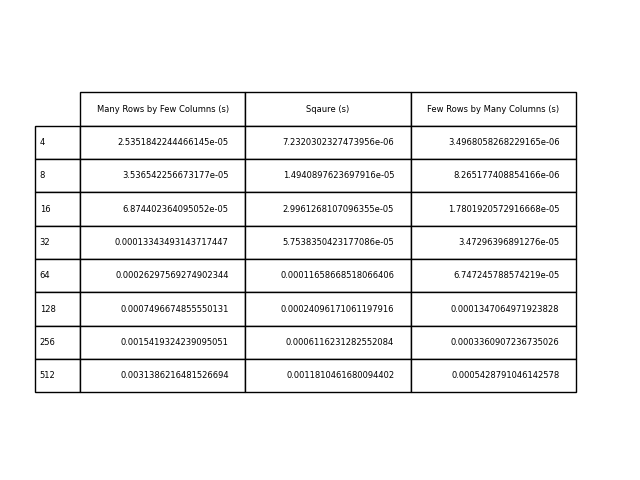
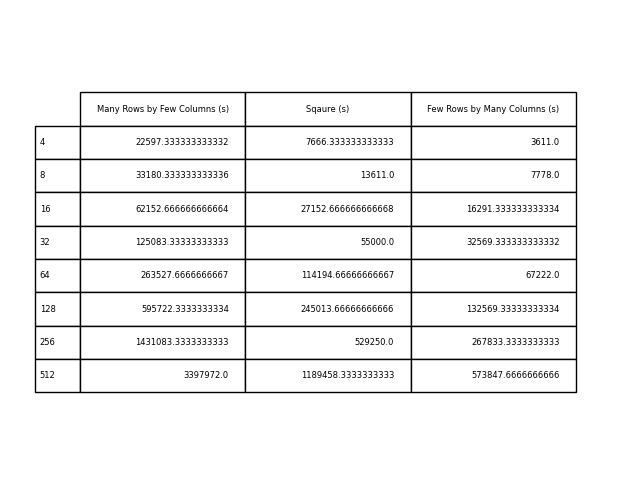
commit

diff --git a/hwk6-23/vault.py b/hwk6-23/vault.py
@@ -96,14 +96,18 @@ def findMaxCoin(A, path, coin, currR, currC):
             nextC = currC + 1
     return path, coin, nextR, nextC
 
-# A = [[0, 4, 1, 3, 11],
-#      [8, 2, 4, 5, 6],
-#      [1, 7, 3, 9, 0],
-#      [0, 12, 1, 2, 0]]
+A = [[0, 4, 1, 3, 11],
+     [8, 2, 4, 5, 6],
+     [1, 7, 3, 9, 0],
+     [0, 12, 1, 2, 0]]
 
-# path, coin = findPath(A)
-# print(path)
-# print(coin)
+
+timeB = time.perf_counter_ns()
+path, coin = findPath(A)
+timeA = time.perf_counter_ns() - timeB
+print(path)
+print(coin)
+print(timeA)
 
 
 # write a function to get an array of size N
@@ -135,21 +139,21 @@ def getTime(arrN):
     for i in range(len(arrN)):
         # Many rows by few columns
         a_R = getMatrix(arrN[i]*4, arrN[i])
-        timeBeforeR = time.time()
+        timeBeforeR = time.perf_counter_ns()
         findPath(a_R)
-        timeR.append(time.time() - timeBeforeR)
+        timeR.append(time.perf_counter_ns() - timeBeforeR)
         
         # Square
         a_S = getMatrix(arrN[i], arrN[i])
-        timeBeforeS = time.time()
+        timeBeforeS = time.perf_counter_ns()
         findPath(a_S)
-        timeS.append(time.time() - timeBeforeS)
+        timeS.append(time.perf_counter_ns() - timeBeforeS)
         
         # Many rows by few columns
         a_C = getMatrix(arrN[i]/4, arrN[i])
-        timeBeforeC = time.time()
+        timeBeforeC = time.perf_counter_ns()
         findPath(a_C)
-        timeC.append(time.time() - timeBeforeC)
+        timeC.append(time.perf_counter_ns() - timeBeforeC)
         
     return [timeR, timeS, timeC]
 
@@ -182,7 +186,7 @@ def getExpResult():
     plt.plot(arrN, time[1], label='Sqaure', color='green')
     plt.plot(arrN, time[2], label='Few Rows by Many Columns', color='red')
     plt.xlabel('N')
-    plt.ylabel('Runtime (seconds)')
+    plt.ylabel('Runtime (nanoseconds)')
     plt.title('Vault.py Runtime')
     plt.legend()
 
@@ -212,9 +216,12 @@ def getExpResult():
 def main():
     # filename = sys.argv[1]
     # matrix = readVault(filename)
+    # timeB = time.perf_counter_ns()
     # path, coin= findPath(matrix)
+    # timeA = time.perf_counter_ns() - timeB
     # print(path)
     # print(coin)
+    # print(timeA)
     getExpResult()
     
 
